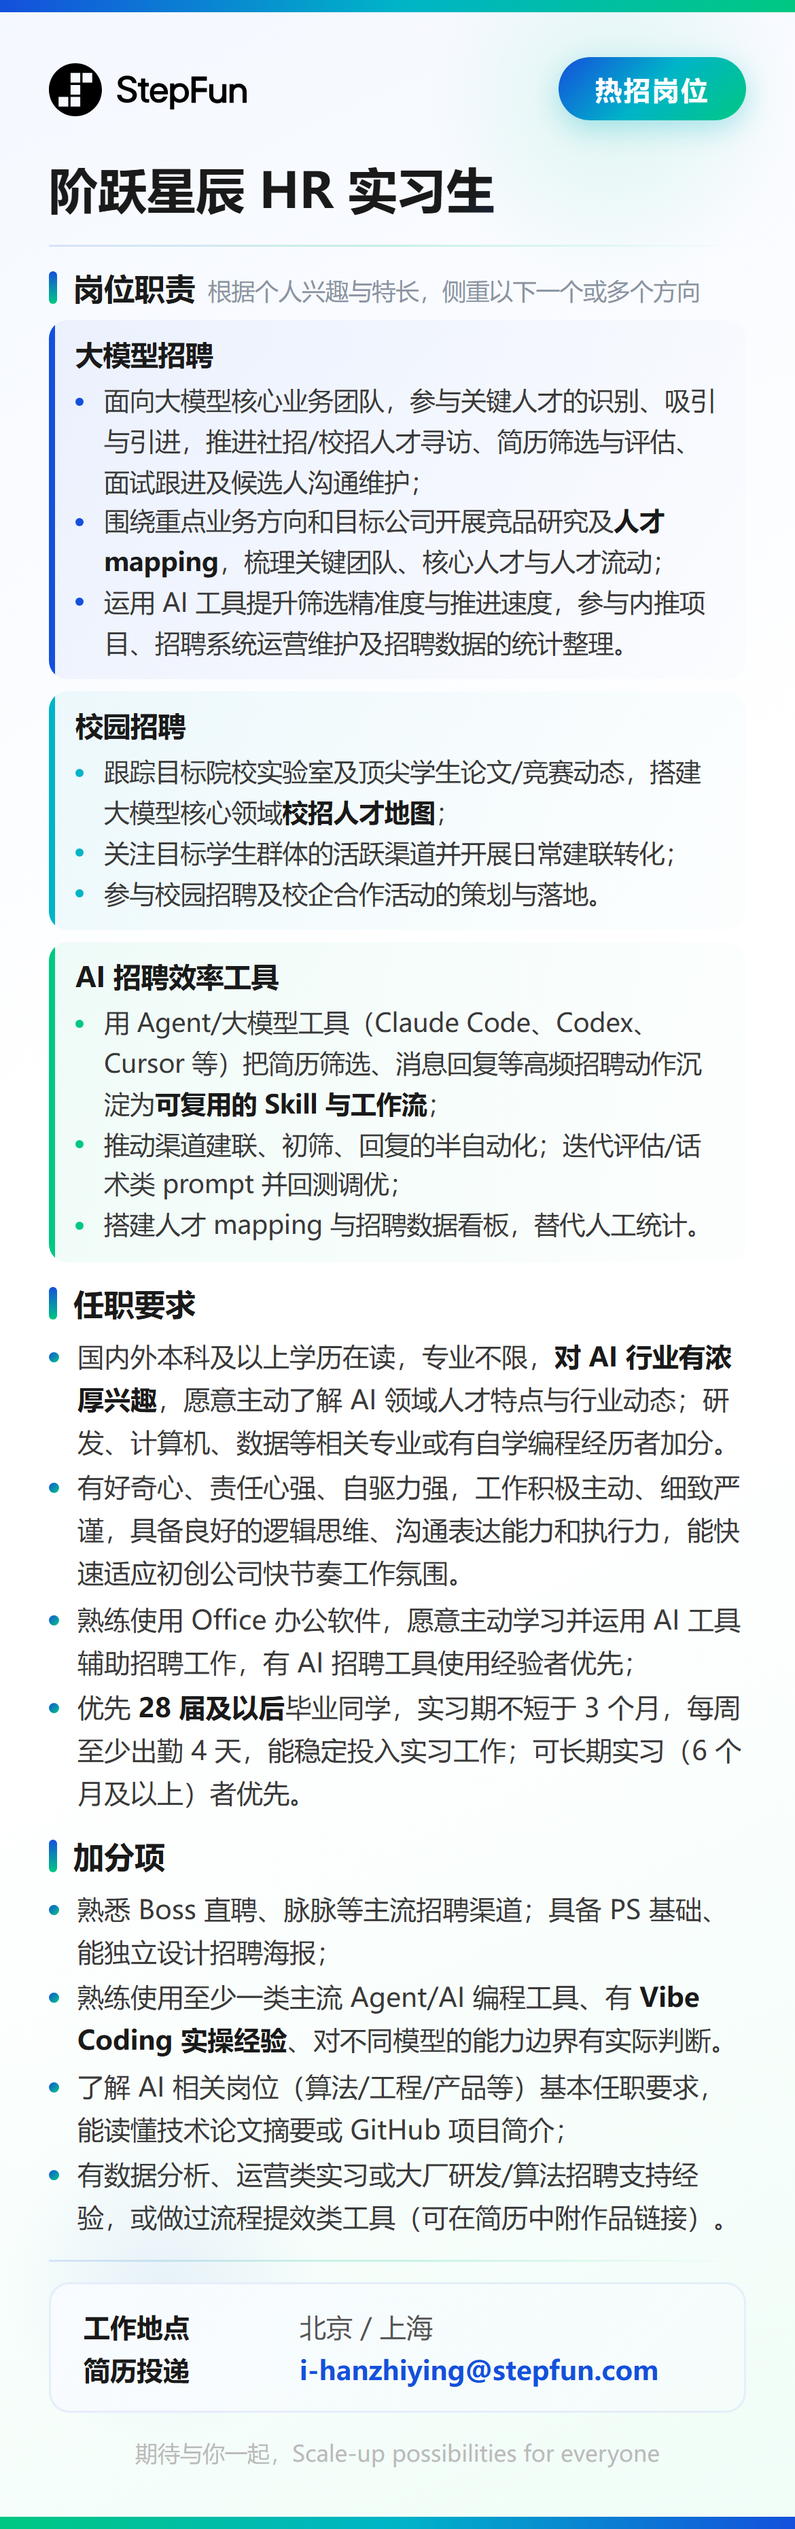
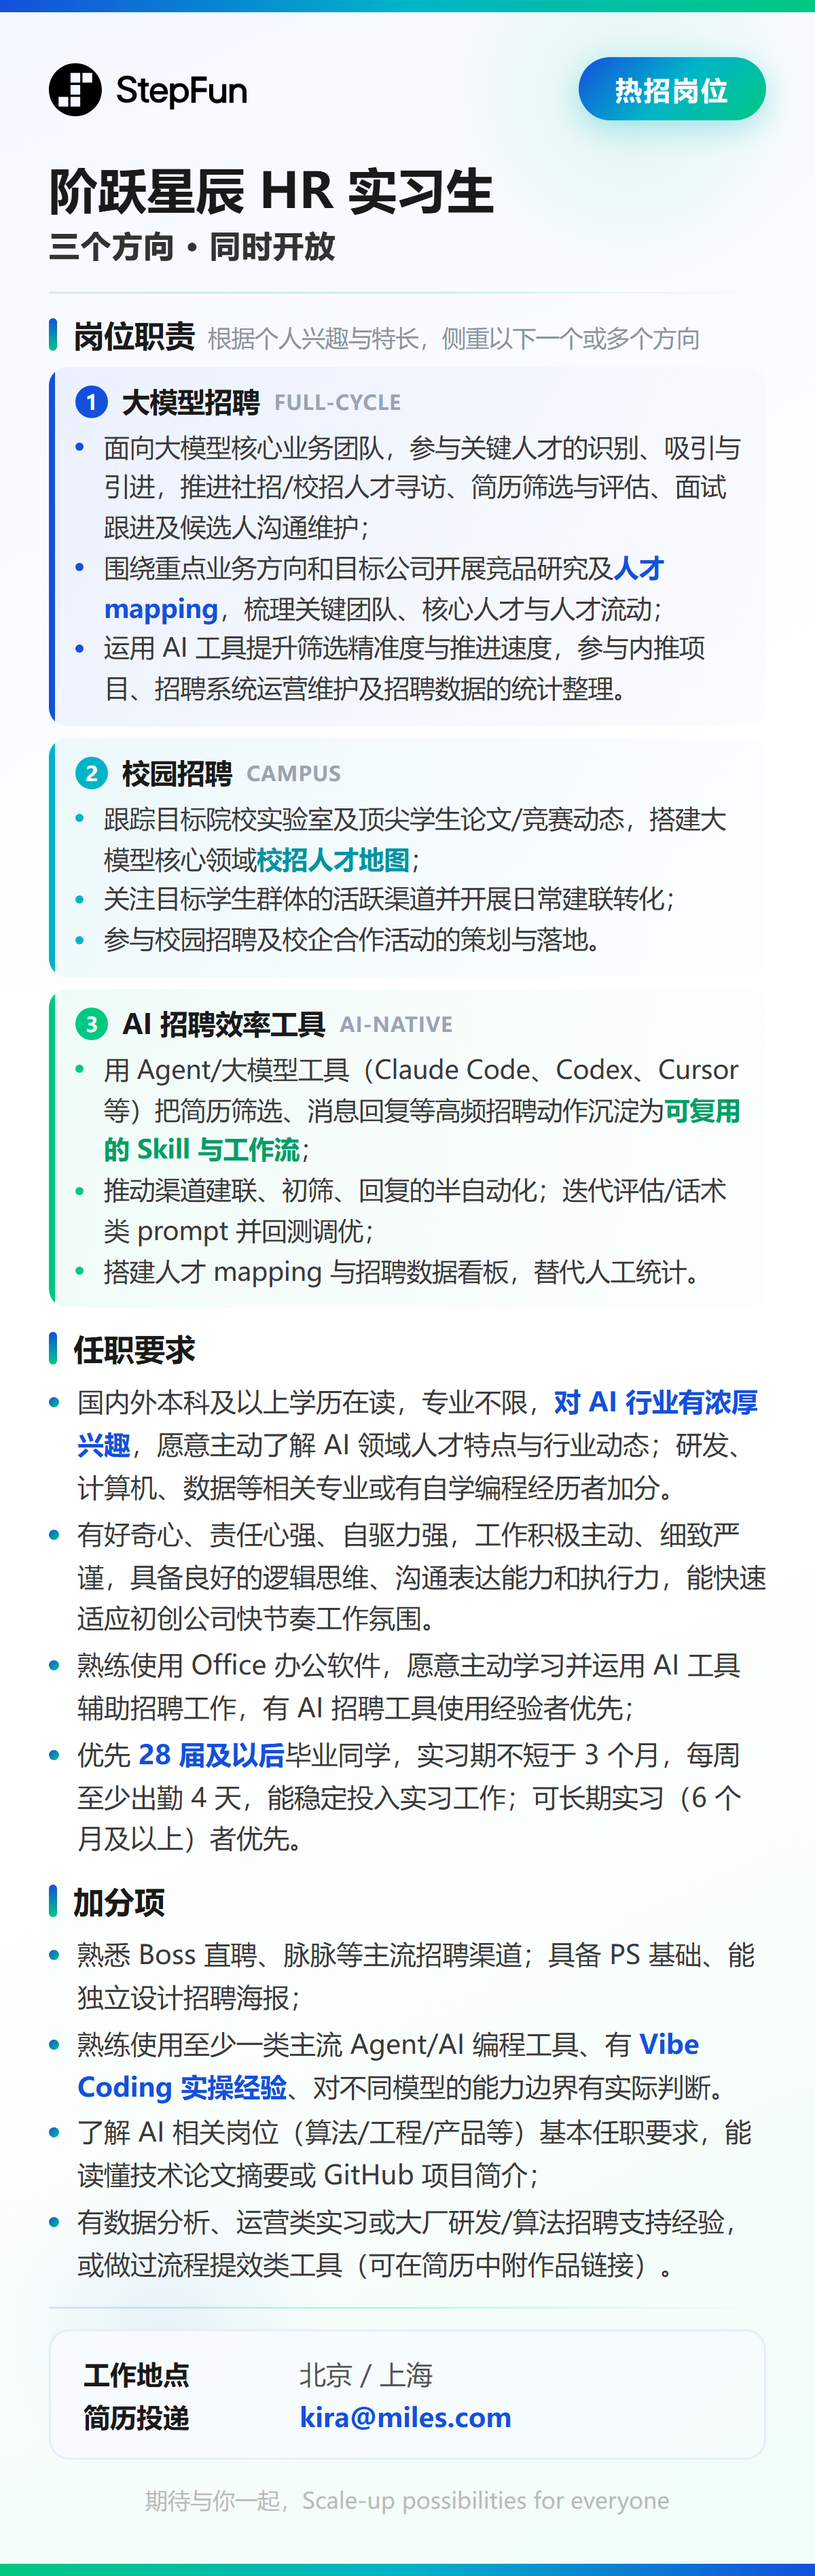
海报：范本重渲为占位邮箱，修 h1 行数量纲不一致
- examples 范本海报用当前模板（占位邮箱）重新渲染，同事真实邮箱不入库
- render_poster.py 的 h1 改为只量主标题文本节点，与 sweep_width.py 口径统一
  （原先含 .sub 副标题一起量，恒报 2 行，使「标题 1 行」自检永远误报）

Changed region(s): [[0.0615, 0.0312, 0.9538, 0.9978], [0.7077, 0.0312, 0.8923, 0.0624], [0.3077, 0.9667, 0.3385, 0.9978]]

diff --git a/jd-poster/scripts/render_poster.py b/jd-poster/scripts/render_poster.py
@@ -22,7 +22,10 @@ MEASURE = r"""
   nodes.forEach((el, i) => {
     const box = el.getBoundingClientRect();
     const range = document.createRange();
-    range.selectNodeContents(el);
+    // h1 只量主标题文本节点，与 sweep_width.py 口径一致
+    // （模板的 h1 里含 .sub 副标题 span，整体量会恒为 2 行，让"标题 1 行"自检永远误报）
+    if (el.tagName === 'H1' && el.firstChild) range.selectNodeContents(el.firstChild);
+    else range.selectNodeContents(el);
     const rects = [...range.getClientRects()].filter(r => r.width > 1 && r.height > 1);
     if (!rects.length) return;
     // 按 top 聚成行
